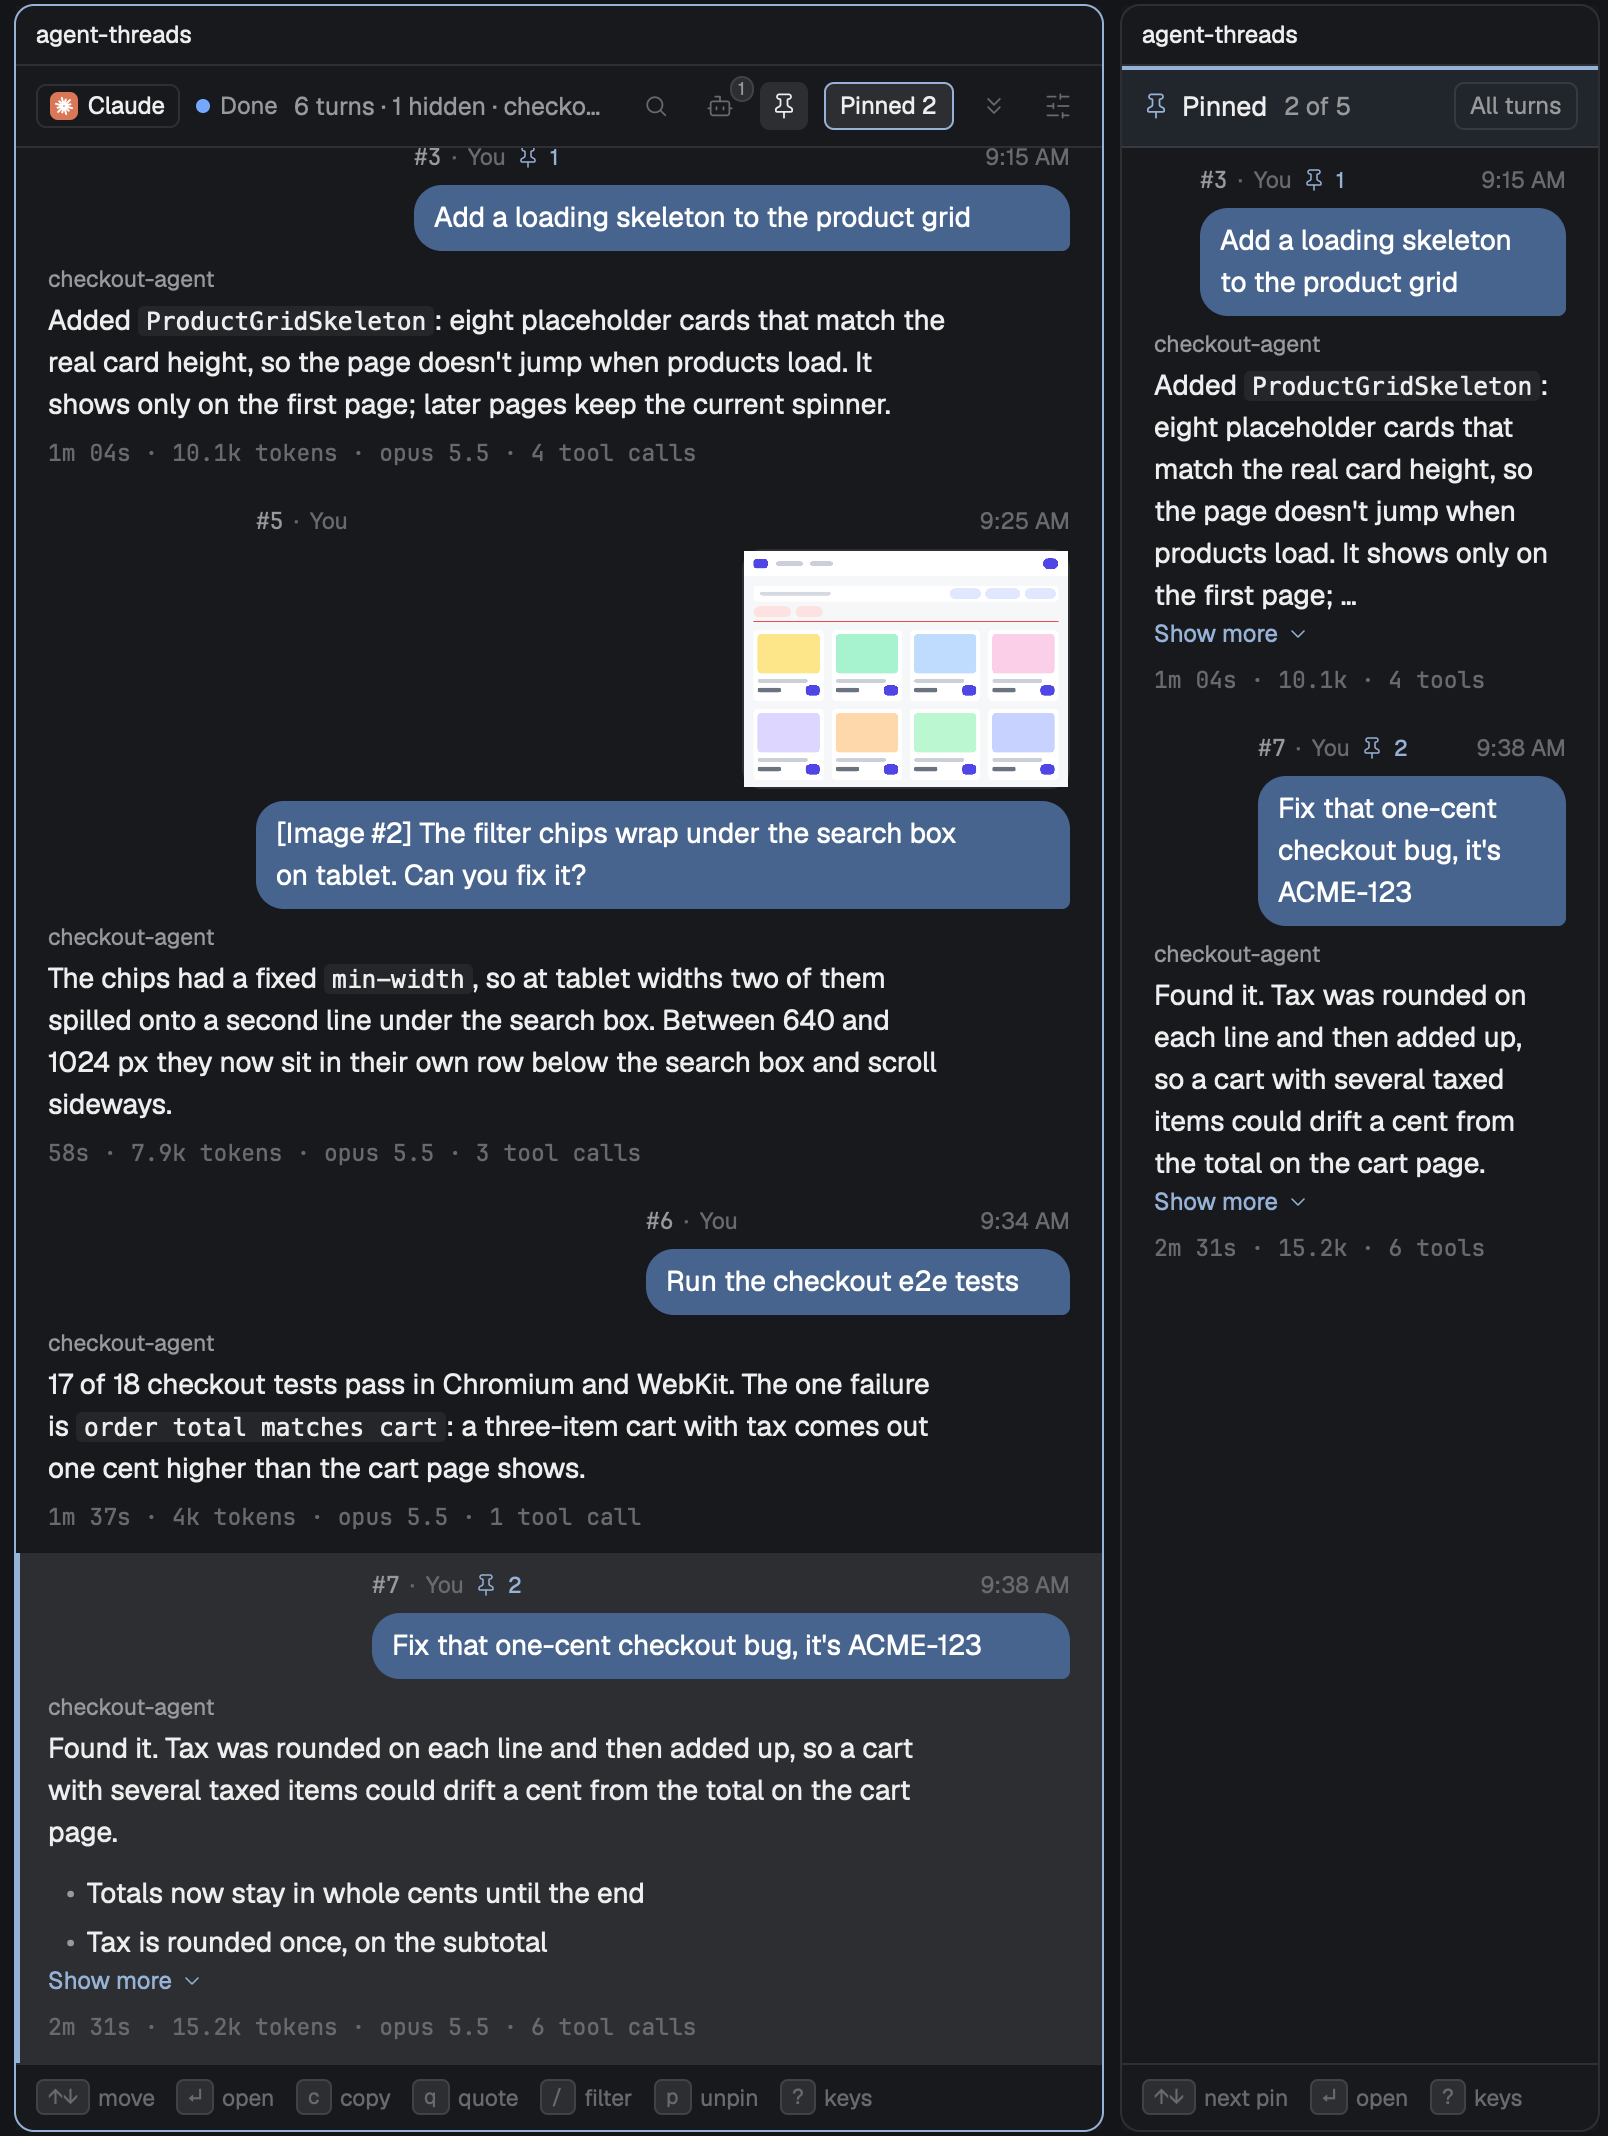
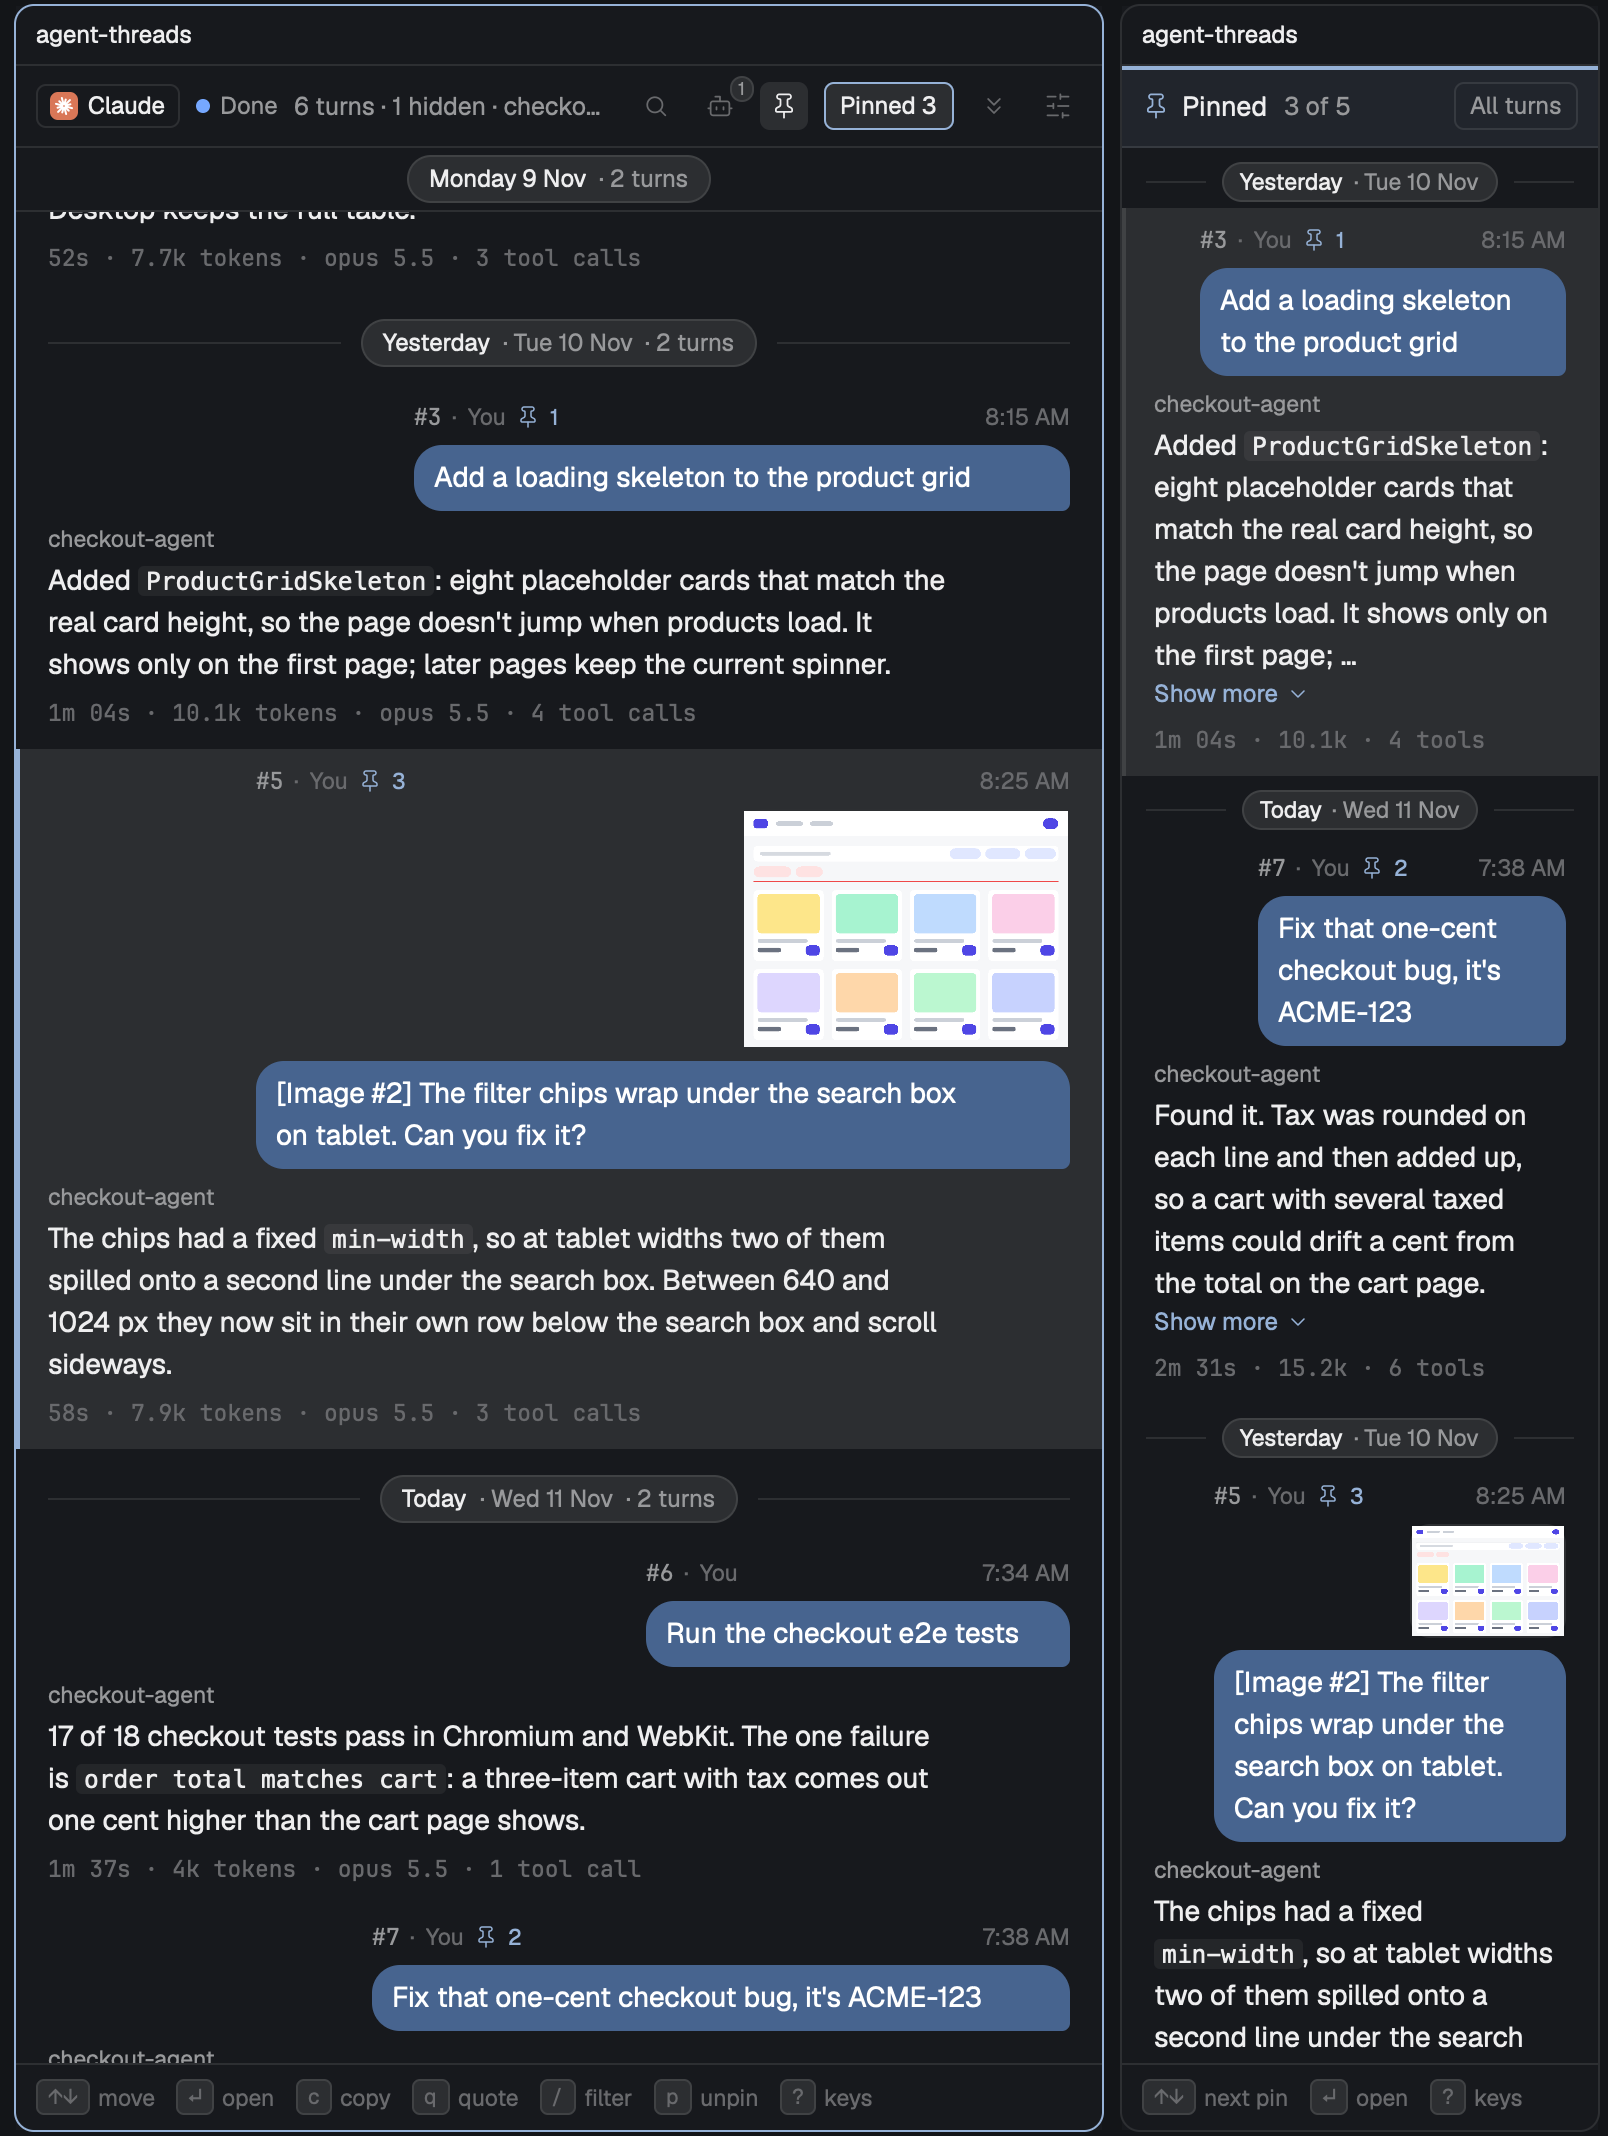
README: retake pinned.png with pins from two days under their day pills
The staged pins now come from a three-day session (#3 and #5 yesterday, #7
today), so the shot shows a day pill at each change of day. The new image's
hash is dropped from test/scan-approved.txt so the scan reads it again; it is
pinned once the owner approves it.

diff --git a/README.md b/README.md
@@ -91,7 +91,7 @@ To quote part of a reply on Herdr 0.1.13 or newer, open the turn, drag across th
 <td width="50%" valign="top"><a href="docs/screenshots/light.png"><img src="docs/screenshots/light.png" alt="Agent Threads beside a terminal in the light theme"></a><br>The same session in Herdr's light theme.</td>
 </tr>
 <tr>
-<td width="50%" valign="top"><a href="docs/screenshots/pinned.png"><img src="docs/screenshots/pinned.png" alt="Two pinned turns in the Pinned column beside the list"></a><br>Two pinned turns in the Pinned column beside the list. Each pinned turn shows its pin number beside its pin, in the list and in the column.</td>
+<td width="50%" valign="top"><a href="docs/screenshots/pinned.png"><img src="docs/screenshots/pinned.png" alt="Three pinned turns from two days in the Pinned column beside the list, each under a day pill"></a><br>Three pinned turns in the Pinned column beside the list, in pin order. Each pinned turn shows its pin number beside its pin, in the list and in the column, and a day pill sits above a pin whose day differs from the one above it.</td>
 <td width="50%" valign="top"><a href="docs/screenshots/updating.png"><img src="docs/screenshots/updating.png" alt="A finished turn with an Updating line under it"></a><br>A background task woke the agent after the last turn ended. The turn keeps its reply, and the Updating line shows the clock, tool calls and what the agent said last. The header says Working.</td>
 </tr>
 <tr>

diff --git a/docs/develop.md b/docs/develop.md
@@ -81,7 +81,7 @@ Start each shot from a fresh launch with the window size set in `window.json`, w
 | `viewer.png` | 1460x1150, `"debug": true`, a `pair` transcript (`make-hero.js pair.jsonl … pair`, two images on turn 5) | `search:#5`, `open`, `open`, `debugClick:500:imgs:0:5`, `debugClick:300:img:0:5:0` | none, the whole window |
 | `agent-messages.png` | 1460x1150 | `agents:on`, `search:#4`, `open`, `open`, then `agents:off` after the shot | `1808 96 2912 2232` |
 | `quote.png` | 1460x1150, `"debug": true`, `render.py` running | `search:#6`, `open`, `open`, `debugQuote` | `552 1418 2912 2232` |
-| `pinned.png` | 1760x1150 | `search:#3`, `open`, `pin`, `search:#7`, `open`, `pin` | `1904 96 3512 2232` |
+| `pinned.png` | 1760x1150, a `days` transcript started two days before the shot (`make-hero.js pdays.jsonl … <two days ago>T15:05:00Z days`), so the pins span Yesterday and Today | `search:#3`, `open`, `pin`, `search:#7`, `open`, `pin`, `search:#5`, `open`, `pin` | `1904 96 3512 2232` |
 | `updating.png` | 1460x1150, a `wake` transcript written just before (`make-hero.js wake.jsonl … wake`) and `printf '\033]7501;state=working:app=claude-code\007'` in the stand-in's screen | `latest` | `1808 96 2912 2232` |
 | `keys.png` | 1460x1150 | `keys` | `1808 96 2912 2232` |
 | `width.png` | 1760x1150, `"readingWidth": false` in `settings.json`, Threads resized to 960 px | `open` | `1578 96 3512 2232` |
